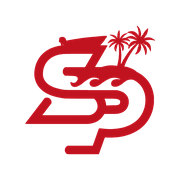
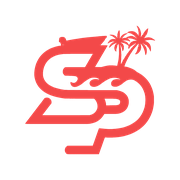
Coral red brand accent, new home step 3, 5 work day turnaround
- Accent and logo files: #F34949 coral red (dark #D93636, light #FF6B6B)
- Home step 3: 'We redesign and print', design is elevated, ready in 5 work days
- All 2-5 work day mentions (footer, product, policy, FAQ, constants) now 5 work days

Claude-Session: https://claude.ai/code/session_019QGSbuZqjKLt8qhZ8UbqJb

Changed region(s): [[0.1389, 0.1389, 0.8611, 0.8611]]

diff --git a/src/index.css b/src/index.css
@@ -22,18 +22,18 @@ html, body { background: #ffffff; color: #111111; }
 html, body { overflow-x: clip; }
 @supports not (overflow: clip) { html, body { overflow-x: hidden; } }
 body { @apply font-sans antialiased; }
-::selection { background: #C1121F; color: #ffffff; }
+::selection { background: #F34949; color: #ffffff; }
 input[type='number']::-webkit-inner-spin-button { opacity: .4; }
 
 /* Shared design links: "Design yours" blinks with a blue outline, tint and outer glow until it's used. */
 @keyframes beacon {
-  0%, 100% { box-shadow: 0 0 0 2px #C1121F, 0 0 4px 1px rgba(193, 18, 31, .35); background-color: rgba(193, 18, 31, .08); }
-  50% { box-shadow: 0 0 0 2px #C1121F, 0 0 26px 9px rgba(193, 18, 31, .9); background-color: rgba(193, 18, 31, .32); }
+  0%, 100% { box-shadow: 0 0 0 2px #F34949, 0 0 4px 1px rgba(243, 73, 73, .35); background-color: rgba(243, 73, 73, .08); }
+  50% { box-shadow: 0 0 0 2px #F34949, 0 0 26px 9px rgba(243, 73, 73, .9); background-color: rgba(243, 73, 73, .32); }
 }
 .beacon { border-radius: 9999px; color: #111111 !important; animation: beacon 1s ease-in-out infinite; }
 
 /* Every pressable thing shows a clear focus ring for keyboard users. */
-:where(button, a, [role='radio'], input[type='checkbox']):focus-visible { outline: 2px solid #C1121F; outline-offset: 2px; }
+:where(button, a, [role='radio'], input[type='checkbox']):focus-visible { outline: 2px solid #F34949; outline-offset: 2px; }
 
 /* Homepage X-ray scanner (components/XrayScan.tsx). The film is the photo as a cold blue negative: the white
    backdrop goes black, the dark tee glows and the print reads as bone. */
@@ -42,12 +42,12 @@ input[type='number']::-webkit-inner-spin-button { opacity: .4; }
 .xray-lines {
   background:
     repeating-linear-gradient(to bottom, rgba(130, 210, 255, .09) 0 1px, transparent 1px 3px),
-    linear-gradient(to right, rgba(193, 18, 31, .12) 1px, transparent 1px) 0 0 / 24px 24px,
-    linear-gradient(to bottom, rgba(193, 18, 31, .12) 1px, transparent 1px) 0 0 / 24px 24px;
+    linear-gradient(to right, rgba(243, 73, 73, .12) 1px, transparent 1px) 0 0 / 24px 24px,
+    linear-gradient(to bottom, rgba(243, 73, 73, .12) 1px, transparent 1px) 0 0 / 24px 24px;
 }
 .xray-beam {
   background: linear-gradient(to right, transparent, #c9f0ff 12%, #ffffff 50%, #c9f0ff 88%, transparent);
-  box-shadow: 0 0 6px 2px rgba(255, 170, 170, .95), 0 0 22px 6px rgba(193, 18, 31, .75), 0 -26px 40px 4px rgba(193, 18, 31, .25);
+  box-shadow: 0 0 6px 2px rgba(255, 170, 170, .95), 0 0 22px 6px rgba(243, 73, 73, .75), 0 -26px 40px 4px rgba(243, 73, 73, .25);
 }
 .xray-corners {
   background:
@@ -61,7 +61,7 @@ input[type='number']::-webkit-inner-spin-button { opacity: .4; }
 @media (prefers-reduced-motion: reduce) {
   .animate-marquee { animation: none !important; }
   .animate-tick, .animate-shake, .animate-page, .animate-pop-check, .animate-shimmer { animation: none !important; }
-  .beacon { animation: none; box-shadow: 0 0 0 2px #C1121F, 0 0 18px 5px rgba(193, 18, 31, .6); background-color: rgba(193, 18, 31, .2); }
+  .beacon { animation: none; box-shadow: 0 0 0 2px #F34949, 0 0 18px 5px rgba(243, 73, 73, .6); background-color: rgba(243, 73, 73, .2); }
 }
 
 @media print {
@@ -71,7 +71,7 @@ input[type='number']::-webkit-inner-spin-button { opacity: .4; }
 }
 
 /* Designer phone tools (components/designer/QuickTools.tsx): slim sliders, some with a colour strip as the track. */
-.slim-range { height: 22px; accent-color: #C1121F; }
+.slim-range { height: 22px; accent-color: #F34949; }
 .slim-range--track { -webkit-appearance: none; appearance: none; height: 8px; border-radius: 9999px; border: 1px solid #dcdcd8; }
 .slim-range--track::-webkit-slider-thumb { -webkit-appearance: none; width: 20px; height: 20px; border-radius: 9999px; background: #fff; border: 2px solid #111; box-shadow: 0 1px 4px rgba(0,0,0,.3); }
 .slim-range--track::-moz-range-thumb { width: 18px; height: 18px; border-radius: 9999px; background: #fff; border: 2px solid #111; box-shadow: 0 1px 4px rgba(0,0,0,.3); }

diff --git a/src/pages/admin/Products.tsx b/src/pages/admin/Products.tsx
@@ -57,7 +57,7 @@ export default function Products() {
               <div className="mt-1 flex gap-1">{p.colors.map((c) => <span key={c} className="h-3 w-3 rounded-full border border-ink-600" style={{ background: c }} />)}</div>
               <div className="mt-auto flex items-center gap-2 pt-3">
                 <label className="flex cursor-pointer items-center gap-2 text-xs text-ink-400">
-                  <input type="checkbox" checked={p.active} onChange={() => toggle(p, 'active')} className="accent-[#C1121F]" /> Live
+                  <input type="checkbox" checked={p.active} onChange={() => toggle(p, 'active')} className="accent-[#F34949]" /> Live
                 </label>
                 <button onClick={() => setEdit(p)} className="ml-auto rounded-lg p-1.5 text-ink-400 hover:bg-ink-800 hover:text-black" aria-label="Edit"><Pencil size={15} /></button>
                 <button onClick={() => del(p)} className="rounded-lg p-1.5 text-ink-400 hover:bg-ink-800 hover:text-flame" aria-label="Delete"><Trash2 size={15} /></button>
@@ -143,9 +143,9 @@ function Editor({ product, onClose, onSaved }: { product: Product; onClose: () =
               </div>
             </Field>
             <div className="flex flex-wrap gap-x-6 gap-y-2 text-sm">
-              <label className="flex items-center gap-2"><input type="checkbox" checked={p.active} onChange={(e) => set('active', e.target.checked)} className="accent-[#C1121F]" /> Live in shop</label>
-              <label className="flex items-center gap-2"><input type="checkbox" checked={p.featured} onChange={(e) => set('featured', e.target.checked)} className="accent-[#C1121F]" /> Featured on home</label>
-              <label className="flex items-center gap-2" title="Premium drops can't be claimed as a free reward tee"><input type="checkbox" checked={!!p.premium} onChange={(e) => set('premium', e.target.checked)} className="accent-[#C1121F]" /> Premium drop (no free tees)</label>
+              <label className="flex items-center gap-2"><input type="checkbox" checked={p.active} onChange={(e) => set('active', e.target.checked)} className="accent-[#F34949]" /> Live in shop</label>
+              <label className="flex items-center gap-2"><input type="checkbox" checked={p.featured} onChange={(e) => set('featured', e.target.checked)} className="accent-[#F34949]" /> Featured on home</label>
+              <label className="flex items-center gap-2" title="Premium drops can't be claimed as a free reward tee"><input type="checkbox" checked={!!p.premium} onChange={(e) => set('premium', e.target.checked)} className="accent-[#F34949]" /> Premium drop (no free tees)</label>
             </div>
           </div>
         </div>

diff --git a/src/components/TeeMockup.tsx b/src/components/TeeMockup.tsx
@@ -273,13 +273,13 @@ function Handles({ layer, box, ui }: { layer: Layer; box: DOMRect; ui: number })
   const stem = 26 * ui
   return (
     <>
-      <rect data-ui x={x} y={y} width={w} height={h} fill="none" stroke="#C1121F" strokeWidth={2 * ui} strokeDasharray={`${6 * ui} ${4 * ui}`} rx={4 * ui} pointerEvents="none" />
-      <line data-ui x1={x + w / 2} y1={y} x2={x + w / 2} y2={y - stem} stroke="#C1121F" strokeWidth={1.5 * ui} pointerEvents="none" />
+      <rect data-ui x={x} y={y} width={w} height={h} fill="none" stroke="#F34949" strokeWidth={2 * ui} strokeDasharray={`${6 * ui} ${4 * ui}`} rx={4 * ui} pointerEvents="none" />
+      <line data-ui x1={x + w / 2} y1={y} x2={x + w / 2} y2={y - stem} stroke="#F34949" strokeWidth={1.5 * ui} pointerEvents="none" />
       <g data-ui data-handle="rotate" transform={`translate(${x + w / 2} ${y - stem}) scale(${ui})`} style={{ cursor: 'grab' }}>
         <title>Rotate</title>
         <circle r="14" fill="transparent" />
-        <circle r="8" fill="#ffffff" stroke="#C1121F" strokeWidth="2" />
-        <path d="M -3.5 -1 A 4 4 0 1 1 -1 3.6" fill="none" stroke="#C1121F" strokeWidth="1.6" strokeLinecap="round" />
+        <circle r="8" fill="#ffffff" stroke="#F34949" strokeWidth="2" />
+        <path d="M -3.5 -1 A 4 4 0 1 1 -1 3.6" fill="none" stroke="#F34949" strokeWidth="1.6" strokeLinecap="round" />
       </g>
       {HANDLES.map(([fx, fy], i) => {
         // Hit areas are bigger than the dots, for fingers.
@@ -288,8 +288,8 @@ function Handles({ layer, box, ui }: { layer: Layer; box: DOMRect; ui: number })
           <g key={i} data-ui data-handle="scale" transform={`translate(${x + fx * w} ${y + fy * h}) scale(${ui})`} style={{ cursor }}>
             <circle r="13" fill="transparent" />
             {fx === 0.5 || fy === 0.5
-              ? <rect x="-4" y="-4" width="8" height="8" rx="2" fill="#ffffff" stroke="#C1121F" strokeWidth="2" />
-              : <circle r="5.5" fill="#ffffff" stroke="#C1121F" strokeWidth="2" />}
+              ? <rect x="-4" y="-4" width="8" height="8" rx="2" fill="#ffffff" stroke="#F34949" strokeWidth="2" />
+              : <circle r="5.5" fill="#ffffff" stroke="#F34949" strokeWidth="2" />}
           </g>
         )
       })}

diff --git a/src/components/Layout.tsx b/src/components/Layout.tsx
@@ -45,7 +45,7 @@ export function Logo({ className, light }: { className?: string; light?: boolean
 function DesignTip({ onClose, align }: { onClose: () => void; align: 'center' | 'right' }) {
   const centre = align === 'center'
   return (
-    <div role="note" className={cx('absolute top-full z-50 mt-8 w-60 animate-pop-in rounded-2xl bg-black p-4 pr-9 text-left text-white shadow-[0_10px_40px_rgba(193,18,31,.45)] ring-2 ring-acid', centre ? 'left-1/2 -ml-[7.5rem]' : '-right-1')}>
+    <div role="note" className={cx('absolute top-full z-50 mt-8 w-60 animate-pop-in rounded-2xl bg-black p-4 pr-9 text-left text-white shadow-[0_10px_40px_rgba(243,73,73,.45)] ring-2 ring-acid', centre ? 'left-1/2 -ml-[7.5rem]' : '-right-1')}>
       <span aria-hidden className={cx('absolute -top-2 h-4 w-4 rotate-45 bg-black ring-2 ring-acid [clip-path:polygon(0_0,100%_0,0_100%)]', centre ? 'left-1/2 -ml-2' : 'right-4')} />
       <ArrowUp aria-hidden size={18} className={cx('absolute -top-7 animate-bounce text-acid', centre ? 'left-1/2 -ml-[9px]' : 'right-[15px]')} />
       <p className="font-poster text-sm uppercase tracking-wider">Like this tee?</p>
@@ -137,7 +137,7 @@ export default function Layout() {
         <div className="mx-auto grid max-w-7xl gap-8 px-4 py-12 sm:grid-cols-2 md:grid-cols-4">
           <div>
             <Logo light />
-            <p className="mt-3 max-w-xs text-sm text-white/60">Streetwear for the bold, from Smuggler&rsquo;s Paradise in Trinidad and Tobago. Custom designs made to order, ready 2&ndash;5 work days after payment is made.</p>
+            <p className="mt-3 max-w-xs text-sm text-white/60">Streetwear for the bold, from Smuggler&rsquo;s Paradise in Trinidad and Tobago. Custom designs made to order, ready 5 work days after payment is made.</p>
             <p {...huntSpot('footer-tagline')} className="mt-4 w-max max-w-full font-pirate text-2xl text-white">{TAGLINE}</p>
           </div>
           <div className="text-sm">

diff --git a/src/pages/admin/Dashboard.tsx b/src/pages/admin/Dashboard.tsx
@@ -93,15 +93,15 @@ export default function Dashboard() {
               <AreaChart data={stats.days} margin={{ left: -10, right: 10 }}>
                 <defs>
                   <linearGradient id="rev" x1="0" y1="0" x2="0" y2="1">
-                    <stop offset="0" stopColor="#C1121F" stopOpacity={0.4} />
-                    <stop offset="1" stopColor="#C1121F" stopOpacity={0} />
+                    <stop offset="0" stopColor="#F34949" stopOpacity={0.4} />
+                    <stop offset="1" stopColor="#F34949" stopOpacity={0} />
                   </linearGradient>
                 </defs>
                 <CartesianGrid stroke="#1a1a1d" vertical={false} />
                 <XAxis dataKey="label" tick={{ fill: '#8a8a94', fontSize: 11 }} tickLine={false} axisLine={false} interval={4} />
                 <YAxis tick={{ fill: '#8a8a94', fontSize: 11 }} tickLine={false} axisLine={false} />
                 <Tooltip {...tooltip} formatter={(v: number) => money(v)} />
-                <Area type="monotone" dataKey="revenue" stroke="#C1121F" strokeWidth={2} fill="url(#rev)" />
+                <Area type="monotone" dataKey="revenue" stroke="#F34949" strokeWidth={2} fill="url(#rev)" />
               </AreaChart>
             </ResponsiveContainer>
           </div>
@@ -133,7 +133,7 @@ export default function Dashboard() {
                 <XAxis type="number" hide />
                 <YAxis type="category" dataKey="name" width={100} tick={{ fill: '#d4d4d8', fontSize: 12 }} tickLine={false} axisLine={false} />
                 <Tooltip {...tooltip} cursor={{ fill: '#1a1a1d' }} />
-                <Bar dataKey="qty" fill="#C1121F" radius={[0, 6, 6, 0]} />
+                <Bar dataKey="qty" fill="#F34949" radius={[0, 6, 6, 0]} />
               </BarChart>
             </ResponsiveContainer>
           </div>

diff --git a/src/pages/Home.tsx b/src/pages/Home.tsx
@@ -1,5 +1,5 @@
 import { Link } from 'react-router-dom'
-import { useCallback, useEffect, useMemo, useState } from 'react'
+import { useCallback, useEffect, useMemo, useState, type ReactNode } from 'react'
 import { ArrowRight, Brush, Instagram } from 'lucide-react'
 import { listProducts } from '../lib/api'
 import type { Product } from '../lib/types'
@@ -15,10 +15,10 @@ import { cargoNo, dropPhase } from '../lib/dropSchedule'
 import { LookOut } from '../components/LookOut'
 import { ProductImg } from '../components/ProductImg'
 
-const STEPS = [
+const STEPS: { t: string; d: ReactNode }[] = [
   { t: 'Pick a tee', d: 'Shop a drop, or choose a regular or oversized blank.' },
   { t: 'Make it yours', d: 'Add text and artwork, front and back.' },
-  { t: 'We print it', d: 'Printed to order and ready 2-5 work days after payment is made.' },
+  { t: 'We redesign and print', d: <>Your design is <em>elevated</em>, printed and ready 5 work days after payment is made.</> },
   { t: 'Track it live', d: 'Follow each step with your order code.' },
 ]
 
@@ -159,7 +159,7 @@ export default function Home() {
       </section>
 
       <section className="mx-auto max-w-2xl px-4 pt-20 text-center">
-        <span aria-hidden className="mx-auto block h-20 w-20" style={brandMark('/brand/sp-monogram.svg', '#C1121F')} />
+        <span aria-hidden className="mx-auto block h-20 w-20" style={brandMark('/brand/sp-monogram.svg', '#F34949')} />
         <h2 {...huntSpot('home-who')} className="mx-auto mt-6 w-max font-pirate text-5xl">Who are we</h2>
         <p className="mt-5 text-ink-400">
           Smuggler&rsquo;s Paradise wasn&rsquo;t born as a brand. It began on the beaches of Trinidad and Tobago, in the places the system forgot,

diff --git a/tailwind.config.js b/tailwind.config.js
@@ -7,7 +7,7 @@ export default {
         // Light theme: the ink scale runs from page background (950) to strong text (200).
         ink: { 950: '#ffffff', 900: '#f6f6f4', 800: '#ebebe8', 700: '#dcdcd8', 600: '#b9b9b4', 400: '#6b6b6b', 200: '#2b2b2b' },
         // Brand blue ("Caribbean electric"). Kept under the old name so existing classes pick it up.
-        acid: { DEFAULT: '#C1121F', dark: '#9B0E19', light: '#FF5A64' },
+        acid: { DEFAULT: '#F34949', dark: '#D93636', light: '#FF6B6B' },
         flame: '#e5484d',
       },
       fontFamily: {
@@ -43,7 +43,7 @@ export default {
         tick: { '0%': { transform: 'scale(1)' }, '35%': { transform: 'scale(1.25)' }, '100%': { transform: 'scale(1)' } },
         shake: { '0%, 100%': { transform: 'none' }, '20%, 60%': { transform: 'translateX(-5px)' }, '40%, 80%': { transform: 'translateX(5px)' } },
         page: { from: { opacity: '0', transform: 'translateY(6px)' }, to: { opacity: '1', transform: 'none' } },
-        glow: { '0%': { backgroundColor: 'rgba(193, 18, 31, .22)' }, '100%': { backgroundColor: 'rgba(193, 18, 31, 0)' } },
+        glow: { '0%': { backgroundColor: 'rgba(243, 73, 73, .22)' }, '100%': { backgroundColor: 'rgba(243, 73, 73, 0)' } },
         'pop-check': { '0%': { transform: 'scale(0) rotate(-45deg)', opacity: '0' }, '60%': { transform: 'scale(1.2) rotate(8deg)', opacity: '1' }, '100%': { transform: 'none', opacity: '1' } },
         shimmer: { from: { transform: 'translateX(-100%)' }, to: { transform: 'translateX(250%)' } },
       },

diff --git a/src/components/designer/Controls.tsx b/src/components/designer/Controls.tsx
@@ -14,7 +14,7 @@ export function Range({ label, value, onChange, min, max, step = 1, suffix = '',
     <label className={cx('block', disabled && 'opacity-40')}>
       <span className="mb-1 flex justify-between text-xs font-semibold uppercase tracking-wider text-ink-400"><span>{label}</span><span className="text-black">{shown ?? `${value}${suffix}`}</span></span>
       {track && <span className="mb-0.5 block h-2 rounded-full border border-ink-700" style={{ background: track }} />}
-      <input type="range" min={min} max={max} step={step} value={value} disabled={disabled} onChange={(e) => onChange(Number(e.target.value))} className="w-full accent-[#C1121F]" />
+      <input type="range" min={min} max={max} step={step} value={value} disabled={disabled} onChange={(e) => onChange(Number(e.target.value))} className="w-full accent-[#F34949]" />
     </label>
   )
 }
@@ -24,7 +24,7 @@ export function Toggle({ label, checked, onChange, children }: { label: string; 
     <div className="space-y-2">
       <label className="flex cursor-pointer items-center justify-between text-xs font-semibold uppercase tracking-wider text-ink-400">
         {label}
-        <input type="checkbox" checked={checked} onChange={(e) => onChange(e.target.checked)} className="accent-[#C1121F]" />
+        <input type="checkbox" checked={checked} onChange={(e) => onChange(e.target.checked)} className="accent-[#F34949]" />
       </label>
       {checked && children}
     </div>

diff --git a/src/pages/admin/Rewards.tsx b/src/pages/admin/Rewards.tsx
@@ -54,7 +54,7 @@ function Queue() {
   }
   return (
     <div className="space-y-3">
-      <label className="flex items-center gap-2 text-sm text-ink-400"><input type="checkbox" checked={all} onChange={(e) => setAll(e.target.checked)} className="accent-[#C1121F]" /> Show reviewed posts too</label>
+      <label className="flex items-center gap-2 text-sm text-ink-400"><input type="checkbox" checked={all} onChange={(e) => setAll(e.target.checked)} className="accent-[#F34949]" /> Show reviewed posts too</label>
       {shown.length === 0 ? <Empty title={all ? 'No submissions yet' : 'Nothing waiting for review'} /> : shown.map((x) => (
         <Card key={x.id} className="flex flex-wrap items-start gap-4">
           {x.screenshot && <a href={x.screenshot} target="_blank" rel="noreferrer"><img src={x.screenshot} alt="Screenshot" className="h-24 w-24 rounded-xl border border-ink-800 object-cover" /></a>}

diff --git a/src/pages/Policy.tsx b/src/pages/Policy.tsx
@@ -31,7 +31,7 @@ const DOCS: Record<PolicyId, Doc> = {
         h: 'Payment',
         body: <>
           <p>Every order needs a 50% deposit or full payment by bank transfer (or at a Paywise outlet), using your order code as the reference. We don&rsquo;t take cash on collection. Any balance is due before you collect or we deliver.</p>
-          <p>Orders are ready 2&ndash;5 work days after payment is made. These are estimates, not guarantees, and big drops or busy periods can add time. We&rsquo;ll keep your order status up to date on the <Link to="/track">Track order</Link> page.</p>
+          <p>Orders are ready 5 work days after payment is made. These are estimates, not guarantees, and big drops or busy periods can add time. We&rsquo;ll keep your order status up to date on the <Link to="/track">Track order</Link> page.</p>
         </>,
       },
       {

diff --git a/src/pages/Designer.tsx b/src/pages/Designer.tsx
@@ -764,7 +764,7 @@ export default function Designer() {
               <p className="flex-1 text-right text-xl font-bold"><Tick value={total}>{money(total)}</Tick></p>
             </div>
             <label className="flex items-start gap-2 text-xs text-ink-400">
-              <input type="checkbox" checked={!!rulesAt} onChange={(e) => acceptRules(e.target.checked)} className="mt-0.5 accent-[#C1121F]" />
+              <input type="checkbox" checked={!!rulesAt} onChange={(e) => acceptRules(e.target.checked)} className="mt-0.5 accent-[#F34949]" />
               <span>I agree to the design rules. I understand Smug Para reviews every design and may decline it.</span>
             </label>
             <Button size="lg" className={cx('w-full', added && '!bg-acid')} onClick={addToBag} disabled={busy || !rulesAt}>

diff --git a/src/components/Feedback.tsx b/src/components/Feedback.tsx
@@ -35,7 +35,7 @@ export function TopProgress() {
   return (
     <div aria-hidden className="pointer-events-none fixed inset-x-0 top-0 z-[90] h-[3px]">
       <div
-        className={cx('h-full origin-left bg-acid shadow-[0_0_10px_rgba(193,18,31,.8)]', phase === 'idle' ? 'opacity-0' : 'opacity-100')}
+        className={cx('h-full origin-left bg-acid shadow-[0_0_10px_rgba(243,73,73,.8)]', phase === 'idle' ? 'opacity-0' : 'opacity-100')}
         style={{
           transform: `scaleX(${phase === 'run' ? 0.85 : phase === 'end' ? 1 : 0})`,
           transition: phase === 'run' ? 'transform 8s cubic-bezier(.1,.7,.2,1), opacity .2s' : phase === 'end' ? 'transform .25s ease-out, opacity .3s ease .2s' : 'none',
